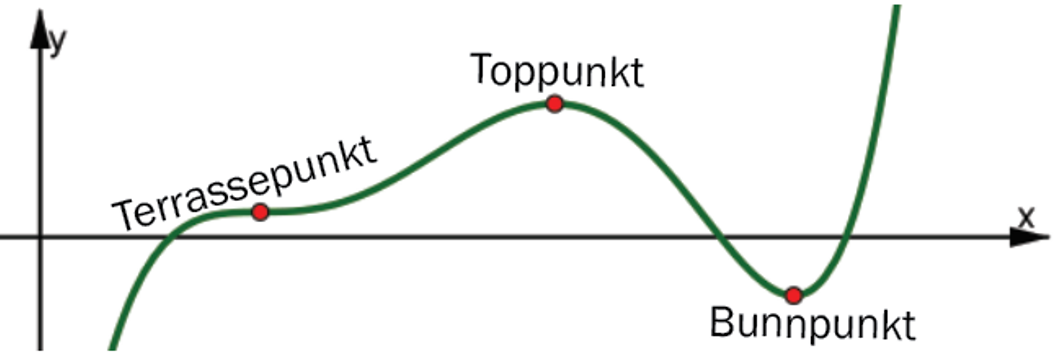
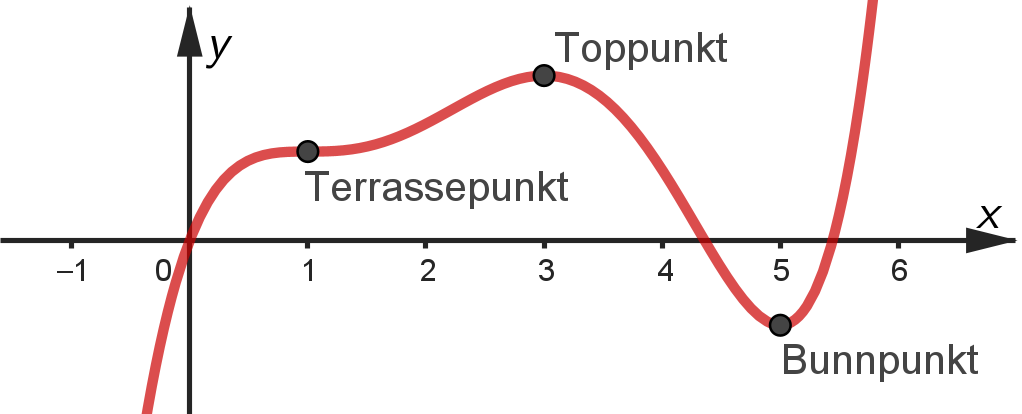
diverse småting

Changed region(s): [[0.0, 0.0, 1.0, 1.0]]

diff --git a/Kap2/Oppgave57.html b/Kap2/Oppgave57.html
@@ -1,0 +1,75 @@
+<!DOCTYPE html>
+<html lang="no">
+<head>
+<meta charset="UTF-8">
+<meta name="viewport" content="width=device-width, initial-scale=1.0">
+<meta name="theme-color" content="#0877ab">
+
+<title>Flervalgsoppgaver R2</title>
+
+<script src="https://cdn.jsdelivr.net/npm/mathjax@3/es5/tex-mml-chtml.js"></script>
+
+<link rel="stylesheet" href="../FlervalgsStyle.css">
+<script src="../FlervalgScript.js" defer></script>
+
+<style>
+img {
+    max-height: 300px;
+    max-width: 450px;
+}
+</style>
+</head>
+
+<body>
+
+<a href="../index.html">← Tilbake til hovedsiden</a>
+
+<div class="status">
+    <div class="progress-bar">
+        <div class="progress" id="progress"></div>
+    </div>
+    <div class="teller">
+        Riktig: <span id="riktig">0</span> |
+        Feil: <span id="feil">0</span> |
+        Score: <span id="prosent">0</span>%
+    </div>
+</div>
+
+<div class="container">
+    <div class="box">
+        <p>Grafikkfeltet viser grafen til \(f(x)\).</p>
+
+        <p><strong>Hva er riktig om <em>terrassepunktet</em>?</strong></p>
+
+        <form id="quiz">
+            <label class="svar" tabindex="0">
+                <input type="radio" name="svar" value="riktig">
+                <span>\(f'(x) = 0\) og \(f''(x) = 0\)</span>
+            </label>
+
+            <label class="svar" tabindex="0">
+                <input type="radio" name="svar" value="feil">
+                <span>\(f'(x) = 0\) og \(f''(x) < 0\)</span>
+            </label>
+
+            <label class="svar" tabindex="0">
+                <input type="radio" name="svar" value="feil">
+                <span>\(f'(x) = 0\) og \(f''(x) > 0\)</span>
+            </label>
+
+            <label class="svar" tabindex="0">
+                <input type="radio" name="svar" value="feil">
+                <span>\(f'(x) > 0\) og \(f''(x) = 0\)</span>
+            </label>
+        </form>
+
+        <button id="neste" onclick="nesteSporsmal()">Neste spørsmål</button>
+    </div>
+
+    <div class="box" style="display: grid; place-items: center;">
+        <img src="ekstremal.png" alt="">
+    </div>
+</div>
+
+</body>
+</html>

diff --git a/Kap2/Oppgave59.html b/Kap2/Oppgave59.html
@@ -1,0 +1,75 @@
+<!DOCTYPE html>
+<html lang="no">
+<head>
+<meta charset="UTF-8">
+<meta name="viewport" content="width=device-width, initial-scale=1.0">
+<meta name="theme-color" content="#0877ab">
+
+<title>Flervalgsoppgaver R2</title>
+
+<script src="https://cdn.jsdelivr.net/npm/mathjax@3/es5/tex-mml-chtml.js"></script>
+
+<link rel="stylesheet" href="../FlervalgsStyle.css">
+<script src="../FlervalgScript.js" defer></script>
+
+<style>
+img {
+    max-height: 300px;
+    max-width: 450px;
+}
+</style>
+</head>
+
+<body>
+
+<a href="../index.html">← Tilbake til hovedsiden</a>
+
+<div class="status">
+    <div class="progress-bar">
+        <div class="progress" id="progress"></div>
+    </div>
+    <div class="teller">
+        Riktig: <span id="riktig">0</span> |
+        Feil: <span id="feil">0</span> |
+        Score: <span id="prosent">0</span>%
+    </div>
+</div>
+
+<div class="container">
+    <div class="box">
+        <p>Grafikkfeltet viser grafen til \(f(x)\).</p>
+
+        <p><strong>Hva er riktig om <em>bunnpunktet</em>?</strong></p>
+
+        <form id="quiz">
+            <label class="svar" tabindex="0">
+                <input type="radio" name="svar" value="feil">
+                <span>\(f'(x) = 0\) og \(f''(x) = 0\)</span>
+            </label>
+
+            <label class="svar" tabindex="0">
+                <input type="radio" name="svar" value="feil">
+                <span>\(f'(x) = 0\) og \(f''(x) < 0\)</span>
+            </label>
+
+            <label class="svar" tabindex="0">
+                <input type="radio" name="svar" value="riktig">
+                <span>\(f'(x) = 0\) og \(f''(x) > 0\)</span>
+            </label>
+
+            <label class="svar" tabindex="0">
+                <input type="radio" name="svar" value="feil">
+                <span>\(f'(x) > 0\) og \(f''(x) = 0\)</span>
+            </label>
+        </form>
+
+        <button id="neste" onclick="nesteSporsmal()">Neste spørsmål</button>
+    </div>
+
+    <div class="box" style="display: grid; place-items: center;">
+        <img src="ekstremal.png" alt="">
+    </div>
+</div>
+
+</body>
+</html>

diff --git a/Kap2/Oppgave58.html b/Kap2/Oppgave58.html
@@ -1,0 +1,75 @@
+<!DOCTYPE html>
+<html lang="no">
+<head>
+<meta charset="UTF-8">
+<meta name="viewport" content="width=device-width, initial-scale=1.0">
+<meta name="theme-color" content="#0877ab">
+
+<title>Flervalgsoppgaver R2</title>
+
+<script src="https://cdn.jsdelivr.net/npm/mathjax@3/es5/tex-mml-chtml.js"></script>
+
+<link rel="stylesheet" href="../FlervalgsStyle.css">
+<script src="../FlervalgScript.js" defer></script>
+
+<style>
+img {
+    max-height: 300px;
+    max-width: 450px;
+}
+</style>
+</head>
+
+<body>
+
+<a href="../index.html">← Tilbake til hovedsiden</a>
+
+<div class="status">
+    <div class="progress-bar">
+        <div class="progress" id="progress"></div>
+    </div>
+    <div class="teller">
+        Riktig: <span id="riktig">0</span> |
+        Feil: <span id="feil">0</span> |
+        Score: <span id="prosent">0</span>%
+    </div>
+</div>
+
+<div class="container">
+    <div class="box">
+        <p>Grafikkfeltet viser grafen til \(f(x)\).</p>
+
+        <p><strong>Hva er riktig om <em>toppunktet</em>?</strong></p>
+
+        <form id="quiz">
+            <label class="svar" tabindex="0">
+                <input type="radio" name="svar" value="feil">
+                <span>\(f'(x) = 0\) og \(f''(x) = 0\)</span>
+            </label>
+
+            <label class="svar" tabindex="0">
+                <input type="radio" name="svar" value="riktig">
+                <span>\(f'(x) = 0\) og \(f''(x) < 0\)</span>
+            </label>
+
+            <label class="svar" tabindex="0">
+                <input type="radio" name="svar" value="feil">
+                <span>\(f'(x) = 0\) og \(f''(x) > 0\)</span>
+            </label>
+
+            <label class="svar" tabindex="0">
+                <input type="radio" name="svar" value="feil">
+                <span>\(f'(x) > 0\) og \(f''(x) = 0\)</span>
+            </label>
+        </form>
+
+        <button id="neste" onclick="nesteSporsmal()">Neste spørsmål</button>
+    </div>
+
+    <div class="box" style="display: grid; place-items: center;">
+        <img src="ekstremal.png" alt="">
+    </div>
+</div>
+
+</body>
+</html>

diff --git a/Kap2/Teori.html b/Kap2/Teori.html
@@ -559,7 +559,7 @@
 
 <section>
 <h2>Ekstremal- og terrassepunkter</h2>
-<img src="ekstremal.png" alt="Ekstremal- og terrassepunkter" style="width: 63%;">
+<img src="ekstremal.png" alt="Ekstremal- og terrassepunkter" style="width: 42%;">
 <div class="definition">
   <h3>Monotoniegenskaper</h3>
   <p>Når grafen til en funksjonen stiger og når den synker.</p>

diff --git a/index.html b/index.html
@@ -196,7 +196,7 @@ function shuffle(array) {
 function velgKategori(kategori) {
 
     const TOTAL = {
-        Kap1: 33, Kap2: 56, Kap3: 26, Kap4: 33
+        Kap1: 33, Kap2: 59, Kap3: 26, Kap4: 33
     };
 
     // ✅ Nullstill ALT for ny kategori
